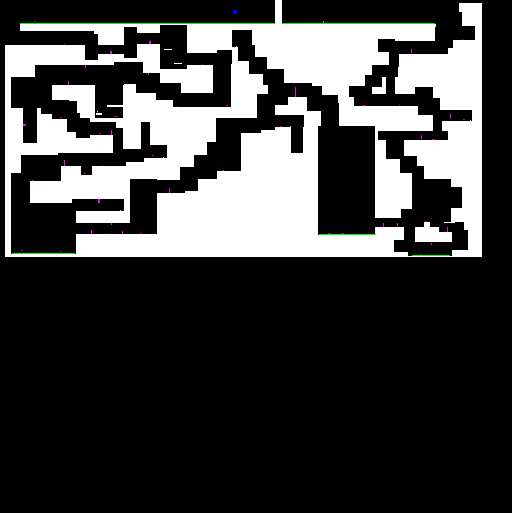
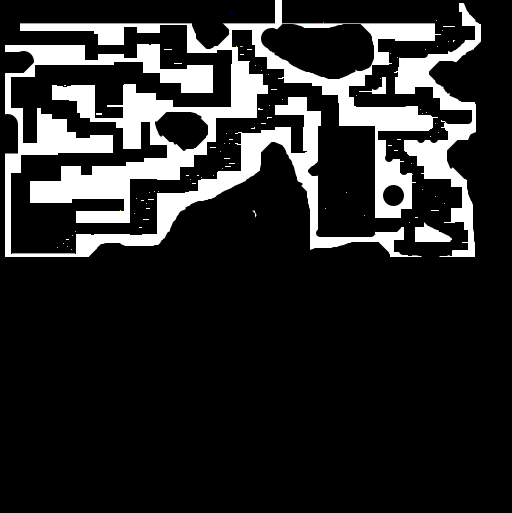
Fixed bug with moving block

diff --git a/src/com/softeng2red/dungeon/objects/Player.java b/src/com/softeng2red/dungeon/objects/Player.java
@@ -51,8 +51,29 @@ public class Player extends GameObject {
             if (tempObject.getId() == ObjectId.Block) {
                 // top
                 if (getBoundsTop().intersects(tempObject.getBounds())) {
-                    y = tempObject.getY() + (height/2);
-                    velY = 0;
+                    if (on_m_block && m_Left){
+                        x = x + 3*width;
+                        on_m_block = false;
+                        if (healthObject.healthNum>0) {
+                            healthObject.healthNum--;
+                        }
+                    }else if(on_m_block && m_Right){
+                        x = x - 3*width;
+                        on_m_block = false;
+                        if (healthObject.healthNum>0) {
+                            healthObject.healthNum--;
+                        }
+                    }else if (on_m_block){
+                        x = x - 3*width;
+                        on_m_block = false;
+                        if (healthObject.healthNum>0) {
+                            healthObject.healthNum--;
+                        }
+                    }
+                    else {
+                        y = tempObject.getY() + (height / 2);
+                        velY = 0;
+                    }
                 }
                 // bottom
                 if (getBounds().intersects(tempObject.getBounds())) {
@@ -79,15 +100,21 @@ public class Player extends GameObject {
                     y = tempObject.getY() + (height/2);
                     velY = 0;
                 }
+
                 // bottom
                 if (getBounds().intersects(tempObject.getBounds())) {
                     y = tempObject.getY() - height;
                     velY = 0;
                     falling = false;
                     jumping = false;
+                    if (tempObject.is_m_Up() == true){
+                        on_m_block = true;
+                    }
                 } else {
                     falling = true;
+                    on_m_block = false;
                 }
+
                 // right
                 if (getBoundsRight().intersects(tempObject.getBounds())) {
                     x = tempObject.getX() - width;

diff --git a/src/com/softeng2red/dungeon/window/Game.java b/src/com/softeng2red/dungeon/window/Game.java
@@ -153,12 +153,13 @@ public class Game extends Canvas implements Runnable {
          int w = image.getWidth();
          int h = image.getHeight();
 
-         for (int xx = 0; xx<h; xx++){
-             for (int yy = 0; yy < w; yy++){
+         for (int xx = 0; xx<w; xx++){
+             for (int yy = 0; yy < h; yy++){
                  int pixel = image.getRGB(xx,yy);
                  int red = (pixel >> 16) & 0xff;
                  int green = (pixel >> 8) & 0xff;
                  int blue = (pixel) & 0xff;
+
 
 
                  //White on paint S, (255,255,255), Standard block
@@ -177,7 +178,9 @@ public class Game extends Canvas implements Runnable {
                  if (red == 102 && blue == 0 & green == 0) handler.addObject((new Obstacle(xx*32,yy*32, ObjectId.Obstacle)));
 
              }
+
          }
+         System.out.println("Finished Reading");
     }
 
     public static Texture getInstance(){

diff --git a/src/com/softeng2red/dungeon/framework/GameObject.java b/src/com/softeng2red/dungeon/framework/GameObject.java
@@ -9,6 +9,12 @@ public abstract class GameObject {
     protected float velX = 0, velY = 0;
     protected boolean falling = true;
     protected boolean jumping = false;
+    protected boolean on_m_block = false;
+    protected boolean m_Right = false;
+    protected boolean m_Left = false;
+    protected boolean m_Up = false;
+    protected boolean m_Down = false;
+
     public int healthNum = 1;
     public int maxHealth  = 4;
     public int minHealth  = 0;
@@ -59,6 +65,10 @@ public abstract class GameObject {
         return falling;
     }
 
+    public boolean is_m_Up() {
+        return m_Up;
+    }
+
     public void setFalling(boolean falling) {
         this.falling = falling;
     }
@@ -70,6 +80,7 @@ public abstract class GameObject {
     public void setJumping(boolean jumping) {
         this.jumping = jumping;
     }
+
 
     public ObjectId getId() {
         return id;

diff --git a/src/com/softeng2red/dungeon/framework/KeyInput.java b/src/com/softeng2red/dungeon/framework/KeyInput.java
@@ -20,10 +20,16 @@ public class KeyInput extends KeyAdapter {
             GameObject tempObject = handler.object.get(i);
 
             if (tempObject.getId() == ObjectId.Player) {
-                if (key == KeyEvent.VK_RIGHT)
+                if (key == KeyEvent.VK_RIGHT) {
+                    tempObject.m_Left = false;
+                    tempObject.m_Right = true;
                     tempObject.setVelX(4);
-                if (key == KeyEvent.VK_LEFT)
+                }
+                if (key == KeyEvent.VK_LEFT) {
+                    tempObject.m_Right = false;
+                    tempObject.m_Left = true;
                     tempObject.setVelX(-4);
+                }
                 if (key == KeyEvent.VK_UP && !tempObject.isJumping()) {
                     tempObject.setJumping(true);
                     tempObject.setVelY(-10);

diff --git a/src/com/softeng2red/dungeon/objects/Moving_Block.java b/src/com/softeng2red/dungeon/objects/Moving_Block.java
@@ -26,6 +26,13 @@ public class Moving_Block extends GameObject {
         if (count%this.delay==0){
             setVelY(velY*-1);
         }
+        if (velY>0){
+            m_Up = false;
+            m_Down = true;
+        }else{
+            m_Up = true;
+            m_Down = false;
+        }
         y += velY;
 
 
